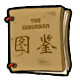
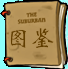
按钮可以实时变化

diff --git a/Gmae.cpp b/Gmae.cpp
@@ -345,23 +345,41 @@ void Game::oc_UI_Upedate()
 void Game::oc_UI_Draw()
 {
 	IMAGE img_0,img_1, img_2, img_3;
+	POINT pt;
+	GetCursorPos(&pt);
 	if (flag == 0)
 	{
+		ScreenToClient(oc_hWnd, &pt);
+		printf("%5i %5i\n", pt.x, pt.y);
 		//bar(100,30,155,120);
-		loadimage(&img_0, L".\\资源文件\\按钮\\图鉴.png", 55, 90, false);
+		if(pt.x > 100 && pt.x < 155 && pt.y>30 && pt.y < 120)
+			loadimage(&img_0, L".\\资源文件\\按钮\\图鉴2.png", 55, 90, false);
+		else
+			loadimage(&img_0, L".\\资源文件\\按钮\\图鉴.png", 55, 90, false);
 		putimage(100, 30, &img_0);
 	}
 	else
 	{
 		win.show();
+		win.w_hWnd = GetHWnd();
+		ScreenToClient(win.w_hWnd, &pt);
 		//bar(970,100,1000,130);//退出
-		loadimage(&img_1, L".\\资源文件\\按钮\\退出.png", 30, 30, false);
+		if (pt.x > 970 && pt.x < 1000 && pt.y>100 && pt.y < 130)
+			loadimage(&img_1, L".\\资源文件\\按钮\\退出2.png", 30, 30, false);
+		else
+			loadimage(&img_1, L".\\资源文件\\按钮\\退出.png", 30, 30, false);
 		putimage(970, 100, &img_1);
 		//bar(940, 360, 990, 390);//下页
-		loadimage(&img_2, L".\\资源文件\\按钮\\下页.png", 50, 30, false);
+		if (pt.x > 940 && pt.x < 990 && pt.y>360 && pt.y < 390)
+			loadimage(&img_2, L".\\资源文件\\按钮\\下页2.png", 50, 30, false);
+		else
+			loadimage(&img_2, L".\\资源文件\\按钮\\下页.png", 50, 30, false);
 		putimage(940, 360, &img_2);
 		//bar(310, 360, 360, 390);//上页
-		loadimage(&img_3, L".\\资源文件\\按钮\\上页.png", 50, 30, false);
+		if (pt.x > 310 && pt.x < 360 && pt.y>360 && pt.y < 390)
+			loadimage(&img_3, L".\\资源文件\\按钮\\上页2.png", 50, 30, false);
+		else
+			loadimage(&img_3, L".\\资源文件\\按钮\\上页.png", 50, 30, false);
 		putimage(310, 360, &img_3);
 	}   
 }
